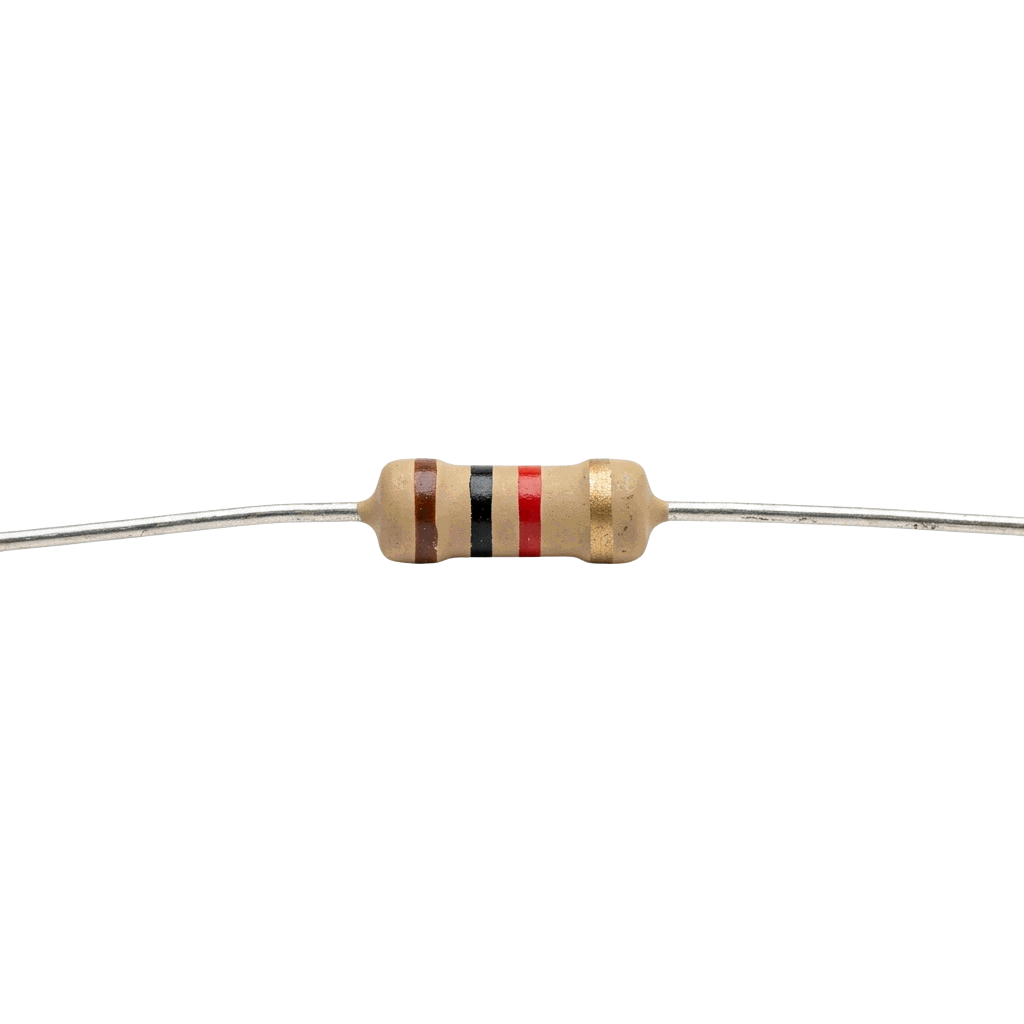
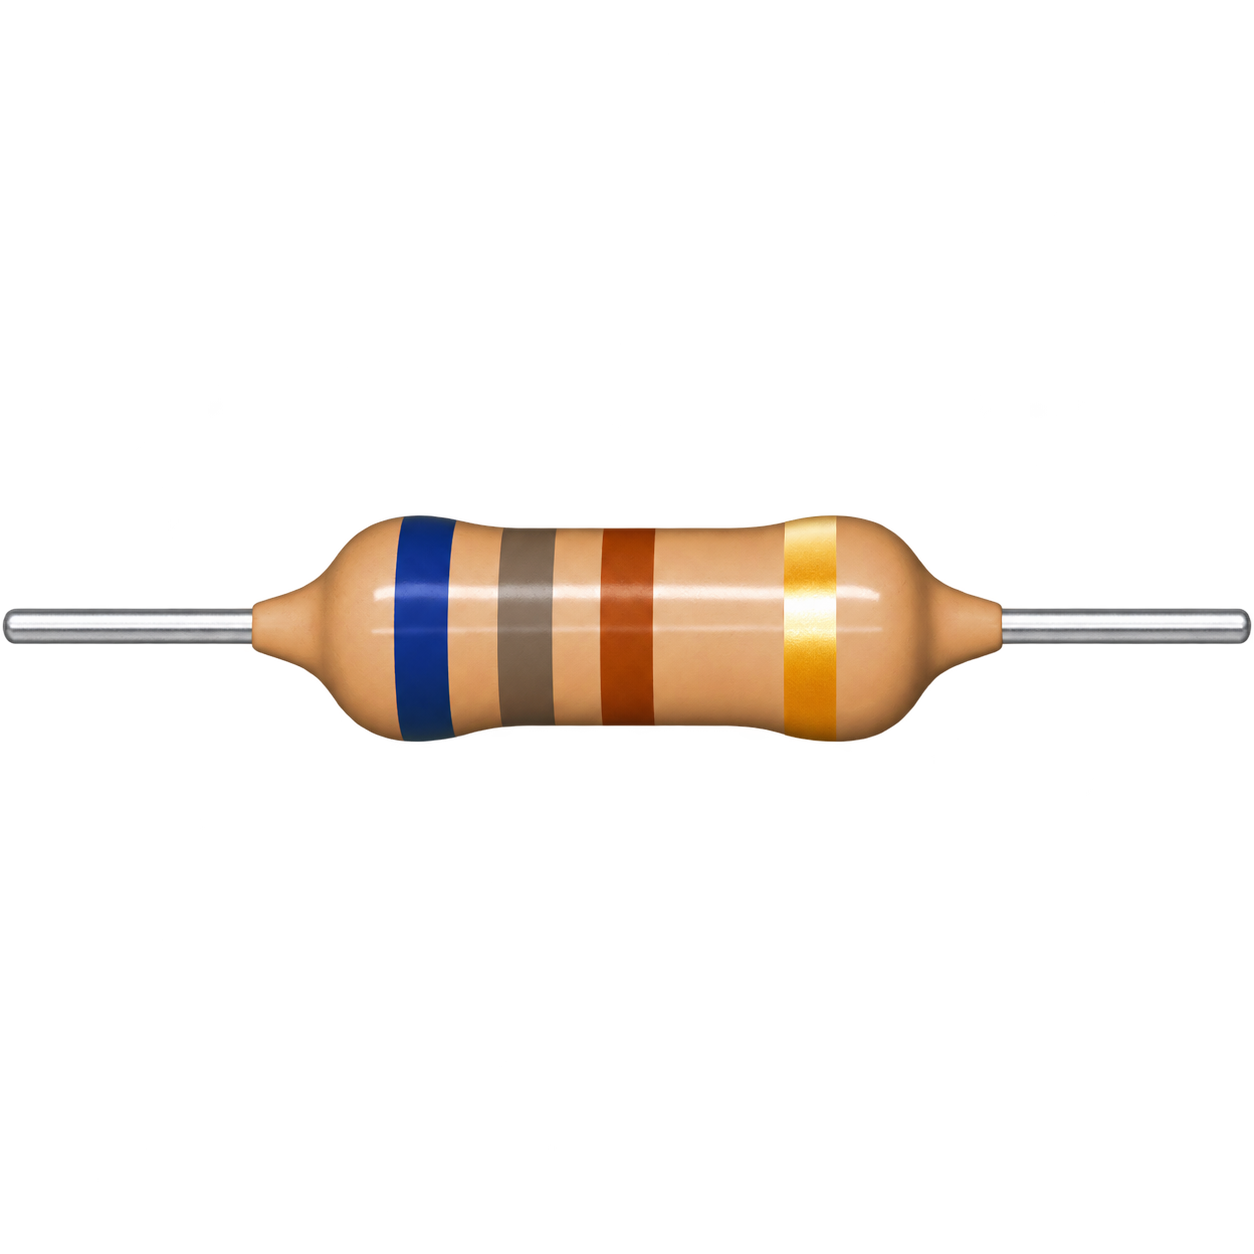
docs: update asset registry, implement asset audit  and refine component documentation

Changed region(s): [[0.0, 0.4062, 1.0, 0.5938]]

diff --git a/docs/ASSET_REGISTRY.md b/docs/ASSET_REGISTRY.md
@@ -1,81 +1,221 @@
-# ASSET_REGISTRY
+# Asset Registry
 
-## 1. Objetivo
-## 2. Regras de uso
-## 3. Status possíveis
-## 4. Índice geral de assets
-## 5. Componentes elétricos validados
-## 6. Assets visuais não elétricos
-## 7. Pendências
+## Objetivo
 
+Este documento registra o primeiro lote de assets canônicos do EletroLab para o Primeiro Stand, **Acende Aí**, sua identidade técnica e o respectivo status de validação.
 
-## 1. Objetivo
+O circuito de referência é:
 
-Este documento registra quais assets visuais são canônicos no EletroLab,
-o que cada um representa e seu status de validação.
+```text
+bateria de 9 V (+) -> interruptor SPST -> resistor de 680 Ω -> LED vermelho -> bateria de 9 V (-)
+```
 
-Ele não define comportamento de runtime, rotação, ghost, solver ou layout.
-Esses aspectos pertencem à implementação e à arquitetura.
+Este documento **não** define rotação, ghost, hitbox, snap, coordenadas de terminais, solver, comportamento interno da Bancada, animações ou layout. Esses aspectos pertencem à arquitetura e à implementação posterior.
 
-## 2. Regras de uso
+Quando um detalhe físico importante não puder ser percebido com clareza no asset principal, ele pode ser ensinado por **material de apoio pedagógico complementar**, desde que o asset não contradiga o componente real. Esse apoio não substitui a validação técnica do componente.
 
-- Um asset elétrico não é aprovado apenas pela aparência.
-- O componente representado deve ser identificado tecnicamente.
-- Símbolo e componente físico devem representar o mesmo dispositivo.
-- Polaridade e terminais precisam ser compatíveis com o componente real.
-- Não inventar tensão, corrente, pinagem ou subtipo ausentes.
-- Imagem gerada ou ilustrada não é fonte técnica.
-- Um asset pode estar inventariado sem estar tecnicamente aprovado.
+## Regras
 
-## 3. Status possíveis
+- Precisão elétrica prevalece sobre aparência e conveniência visual.
+- Um asset só representa um dispositivo quando tipo/subtipo, terminais, polaridade (quando houver) e símbolo técnico forem coerentes entre si.
+- Valores elétricos do circuito didático não são especificações universais do componente físico.
+- Imagens geradas ou estilizadas são referências visuais, nunca fonte técnica.
+- Nenhuma especificação que não esteja no código, na documentação canônica ou na referência citada é inferida.
+- Se uma propriedade essencial não puder ser confirmada, o item permanece `EM_VALIDACAO`.
+- Cores dos fios são apoio visual; não definem polaridade nem topologia.
+- Material pedagógico complementar pode destacar detalhes reais difíceis de perceber no asset, como comprimento dos terminais, face plana do LED, ânodo/cátodo, código de cores e símbolos.
 
-| Status         | Significado                                           |
-| -------------- | ----------------------------------------------------- |
-| `INVENTARIADO` | existe e foi identificado no repositório              |
-| `EM_VALIDACAO` | asset escolhido, mas falta confirmação técnica        |
-| `APROVADO`     | asset + identidade técnica + uso pedagógico validados |
-| `REJEITADO`    | não deve ser usado como representação canônica        |
+## Status
 
-## 4. Índice geral de assets
+- `INVENTARIADO`: asset e uso localizados, ainda sem validação técnica suficiente.
+- `EM_VALIDACAO`: há informação ausente, ambígua ou contraditória.
+- `APROVADO`: identidade, terminais, polaridade quando aplicável, símbolo, uso pedagógico e referência técnica são coerentes.
+- `REJEITADO`: o asset contradiz o dispositivo que deveria representar ou não pode cumprir seu papel pedagógico.
 
-| ID      | Componente/uso   | Asset canônico                      | Categoria | Status       | Uso principal |
-| ------- | ---------------- | ----------------------------------- | --------- | ------------ | ------------- |
-| BAT-001 | Bateria 9 V      | `assets/components/battery.png`     | elétrico  | EM_VALIDACAO | Acende Aí     |
-| RES-001 | Resistor         | `assets/components/resistor.png`    | elétrico  | EM_VALIDACAO | Acende Aí     |
-| LED-001 | LED vermelho     | `assets/components/led_off.png`     | elétrico  | EM_VALIDACAO | Acende Aí     |
-| SW-001  | Interruptor SPST | `assets/components/switch_open.png` | elétrico  | EM_VALIDACAO | Acende Aí     |
+## Índice
 
-## 5. Componentes elétricos validados
+| ID | Componente | Asset canônico | Status | Uso principal |
+|---|---|---|---|---|
+| BAT-001 | Bateria alcalina de 9 V | `assets/components/battery.png` | APROVADO | Fonte do circuito de referência. |
+| RES-001 | Resistor axial de 680 Ω | `assets/components/resistor.png` | EM_VALIDACAO | Novo asset correto, aguardando substituição no repositório. |
+| LED-001 | LED vermelho de dois terminais | `assets/components/led_off.png` | APROVADO | Carga luminosa polarizada; A/K reforçados por apoio pedagógico. |
+| SW-001 | Interruptor-faca SPST | `assets/components/switch_open.png` | APROVADO | Abrir e fechar o caminho em série. |
+| WIRE-001 | Fios de conexão didáticos | `assets/components/wires.png` | EM_VALIDACAO | Tipo físico de conector ainda a definir. |
 
 ## BAT-001 — Bateria 9 V
 
 - **Asset canônico:** `assets/components/battery.png`
-- **Alternativa existente:** `assets/images/component_battery_horizontal.png`
-- **Asset de origem/referência visual:** imagem comercial de bateria Duracell 9 V
+- **Alternativas existentes:** `assets/images/component_battery_horizontal.png`
+- **Asset de origem/referência visual:** bateria Duracell 9 V usada como referência visual; o asset canônico final foi desmarcado e não deve exibir branding comercial.
 
-- **Nome técnico:** bateria alcalina de 9 V
-- **Tipo/subtipo:** bateria primária alcalina, formato 9 V
-- **Quantidade de terminais:** 2
-- **Função dos terminais:** terminal positivo (+) e terminal negativo (−)
-- **Polaridade:** sim
+- **Nome técnico:** bateria alcalina de 9 V.
+- **Tipo/subtipo:** bateria primária alcalina, formato 9 V, com dois terminais snap.
+- **Quantidade de terminais:** 2.
+- **Função dos terminais:** positivo (+) e negativo (−).
+- **Polaridade:** sim.
 
-- **Tensão/faixa relevante para a demonstração:** 9 V
-- **Corrente/faixa relevante:** depende da carga; não definir valor fixo sem referência técnica
-- **Outros parâmetros relevantes:** terminais tipo miniature snap
+- **Tensão/faixa relevante para a demonstração:** 9 V nominal.
+- **Corrente/faixa relevante:** depende da carga; no circuito de referência, aproximadamente 10,3 mA, valor que não representa corrente nominal da bateria.
+- **Outros parâmetros relevantes:** os dois terminais possuem formatos físicos distintos e precisam permanecer coerentes com a identificação +/−.
 
-- **Representação esquemática correspondente:** símbolo de bateria
-- **Implementação da representação:** desenhado por código via painter esquemático
+- **Representação esquemática correspondente:** símbolo de bateria, com polaridade explícita.
+- **Implementação da representação:** representação esquemática desenhada por código; manter correspondência com o tipo físico e os polos.
 
-- **Referência real confiável:** documentação técnica oficial Duracell para bateria alcalina 9 V
-- **Fabricante/modelo de referência:** Duracell MN1604 / 6LR61, bateria alcalina 9 V
+- **Referência real confiável:** documentação técnica oficial Duracell para bateria alcalina de 9 V.
+- **Fabricante/modelo de referência:** Duracell MN1604 ou referência tecnicamente compatível, sem afirmar que o asset genérico é esse modelo exato.
 
-- **Uso pedagógico:** fonte do circuito-base do Primeiro Stand — “Acende Aí”
-- **Comportamento que o estudante deve reconhecer:** fornece diferença de potencial ao circuito; os polos possuem polaridade definida
+- **Uso pedagógico:** fornecer a diferença de potencial do circuito de baixa tensão.
+- **Comportamento que o estudante deve reconhecer:** + e − indicam polaridade/potencial; a bateria fornece diferença de potencial entre seus polos.
 
-- **Observações visuais:** o terminal menor é o positivo (+) e o terminal maior é o negativo (−). Há uma segunda representação da mesma entidade no repositório; não é duplicata binária e não foi escolhida como asset canônico.
-- **Status:** APROVADO
-- **Pendências:** nenhuma para identificação básica do asset
+- **Observações visuais:** asset final sem marca comercial; dois terminais e polaridade coerentes com bateria de 9 V real.
+- **Status:** `APROVADO`
+- **Pendências:** nenhuma de identidade técnica. Hitboxes e coordenadas ficam fora deste registro.
 
-## RES-001 — Resistor genérico
+## RES-001 — Resistor 680 Ω
 
+- **Asset canônico:** `assets/components/resistor.png`
+- **Alternativas existentes:** `assets/images/component_resistor.png`
+- **Asset de origem/referência visual:** novo asset visual baseado em resistor axial realista, sem identificação comercial específica.
 
+- **Nome técnico:** resistor fixo axial.
+- **Tipo/subtipo:** resistor axial de dois terminais; material construtivo exato não deve ser inferido pela aparência.
+- **Quantidade de terminais:** 2.
+- **Função dos terminais:** extremidades do elemento resistivo; eletricamente intercambiáveis neste uso.
+- **Polaridade:** não possui.
+
+- **Tensão/faixa relevante para a demonstração:** circuito alimentado por 9 V; não inferir tensão nominal do resistor pelo asset.
+- **Corrente/faixa relevante:** aproximadamente 10,3 mA no circuito de referência.
+- **Outros parâmetros relevantes:** valor pedagógico: `680 Ω`. Código de cores de 4 faixas adotado: **azul – cinza – marrom – dourado**, correspondente a **680 Ω ±5 %**.
+
+- **Representação esquemática correspondente:** símbolo IEC de resistor, sem polaridade.
+- **Implementação da representação:** representação esquemática desenhada por código.
+
+- **Referência real confiável:** resistor axial comercial de 680 Ω com datasheet de fabricante ou distribuidor técnico confiável.
+- **Fabricante/modelo de referência:** referência técnica compatível, sem identificar o asset como modelo comercial exato.
+
+- **Uso pedagógico:** limitar a corrente em série e proteger o LED.
+- **Comportamento que o estudante deve reconhecer:** o resistor de 680 Ω limita a corrente; inverter suas extremidades não altera sua função.
+
+- **Observações visuais:** o novo asset revisado está horizontal, com fundo transparente e faixas `azul – cinza – marrom – dourado`, coerentes com 680 Ω ±5 %. A arte anterior incompatível não deve permanecer como canônica.
+- **Status:** `EM_VALIDACAO`
+- **Pendências:** substituir `assets/components/resistor.png` pelo novo asset e confirmar o arquivo final no repositório. Depois disso, pode passar para `APROVADO`.
+
+## LED-001 — LED vermelho
+
+- **Asset canônico:** `assets/components/led_off.png`
+- **Asset de estado ligado:** `assets/components/led_on.png`
+- **Alternativas existentes:** `assets/images/component_led_off.png`, `assets/images/component_led_on.png`
+- **Asset de origem/referência visual:** não identificado com segurança.
+
+- **Nome técnico:** LED vermelho de furo passante.
+- **Tipo/subtipo:** LED vermelho de dois terminais, encapsulamento visualmente compatível com formato comum de aproximadamente 5 mm; modelo comercial exato não identificado.
+- **Quantidade de terminais:** 2.
+- **Função dos terminais:** ânodo (A) e cátodo (K).
+- **Polaridade:** sim.
+
+- **Tensão/faixa relevante para a demonstração:** o Primeiro Stand usa aproximadamente `Vf = 2 V` como modelo didático; não é valor universal para todo LED vermelho.
+- **Corrente/faixa relevante:** no circuito com resistor de 680 Ω, aproximadamente 10,3 mA.
+- **Outros parâmetros relevantes:** exige limitação de corrente; não deve ser ligado diretamente à bateria de 9 V.
+
+- **Representação esquemática correspondente:** símbolo de LED; orientação A/K deve ser coerente com a montagem.
+- **Implementação da representação:** representação esquemática desenhada por código e mapeamento A/K no modelo de terminais.
+
+- **Referência real confiável:** datasheet de LED vermelho comercial de dois terminais e encapsulamento compatível.
+- **Fabricante/modelo de referência:** referência técnica compatível, não identificação exata do asset.
+
+- **Uso pedagógico:** carga luminosa polarizada do circuito-base do Primeiro Stand.
+- **Comportamento que o estudante deve reconhecer:** o LED emite luz quando polarizado diretamente e com corrente limitada; a orientação dos terminais importa.
+
+- **Observações visuais:** `led_off` e `led_on` representam o mesmo LED em dois estados. A diferença A/K não precisa ser artificialmente exagerada no asset principal. O apoio pedagógico deve mostrar claramente os indicadores reais adotados para o componente de referência: **perna mais longa = ânodo**, **perna mais curta = cátodo** e **face plana do encapsulamento = lado do cátodo**, além do símbolo correspondente.
+- **Status:** `APROVADO`
+- **Pendências:** criar material de apoio pedagógico com diagrama claro de A/K, comprimento das pernas, face plana e símbolo; confirmar que a orientação usada pelo código não contradiz esse material.
+
+## SW-001 — Interruptor SPST
+
+- **Asset canônico:** `assets/components/switch_open.png`
+- **Asset de estado fechado:** `assets/components/switch_closed.png`
+- **Alternativas existentes:** `assets/images/component_switch_off.png`, `assets/images/component_switch_on.png`
+- **Asset de origem/referência visual:** não identificado com segurança; visualmente compatível com chave-faca didática.
+
+- **Nome técnico:** interruptor-faca SPST.
+- **Tipo/subtipo:** single pole, single throw (SPST), acionamento manual e contato visível.
+- **Quantidade de terminais:** 2.
+- **Função dos terminais:** conectados quando fechado e separados quando aberto.
+- **Polaridade:** não possui.
+
+- **Tensão/faixa relevante para a demonstração:** uso didático no circuito de 9 V; não inferir tensão nominal comercial pelo asset.
+- **Corrente/faixa relevante:** aproximadamente 10,3 mA no circuito de referência quando fechado; não é corrente nominal da chave.
+- **Outros parâmetros relevantes:** não é SPDT, DPST, DPDT, relé, fusível ou disjuntor.
+
+- **Representação esquemática correspondente:** símbolo de interruptor SPST, aberto ou fechado conforme o estado.
+- **Implementação da representação:** representação esquemática desenhada por código.
+
+- **Referência real confiável:** chave-faca SPST real de uso didático/laboratorial.
+- **Fabricante/modelo de referência:** referência técnica compatível, não identificação exata do asset.
+
+- **Uso pedagógico:** controlar a continuidade do único percurso em série.
+- **Comportamento que o estudante deve reconhecer:** aberto = contatos separados; fechado = contatos unidos.
+
+- **Observações visuais:** `switch_open.png` e `switch_closed.png` representam estados coerentes. `on/off` não deve substituir automaticamente aberto/fechado sem mapeamento explícito.
+- **Status:** `APROVADO`
+- **Pendências:** nenhuma de identidade técnica.
+
+## WIRE-001 — Fios/conexões
+
+- **Asset canônico:** `assets/components/wires.png`
+- **Alternativas existentes:** não localizadas neste lote.
+- **Asset de origem/referência visual:** não identificado com segurança.
+
+- **Nome técnico:** fios de conexão para circuito didático de baixa tensão.
+- **Tipo/subtipo:** a definir conforme o sistema físico de terminais adotado para a bancada.
+- **Quantidade de terminais:** duas extremidades condutoras por fio.
+- **Função dos terminais:** estabelecer conexão elétrica entre dois pontos.
+- **Polaridade:** o fio em si não possui polaridade; sua cor não determina potencial.
+
+- **Tensão/faixa relevante para a demonstração:** baixa tensão didática de 9 V.
+- **Corrente/faixa relevante:** aproximadamente 10,3 mA no circuito de referência; não usar como corrente nominal do fio.
+- **Outros parâmetros relevantes:** não inferir bitola, material, tipo de conector, isolamento, tensão máxima ou corrente nominal pela imagem.
+
+- **Representação esquemática correspondente:** linha condutora/conexão elétrica; junções dependem da topologia e da marcação de nó.
+- **Implementação da representação:** conexões elétricas são modeladas separadamente dos componentes físicos.
+
+- **Referência real confiável:** deverá corresponder ao sistema físico de conexão efetivamente adotado.
+- **Fabricante/modelo de referência:** ainda não definido.
+
+- **Uso pedagógico:** tornar visível a continuidade entre terminais e formar o caminho condutor.
+- **Comportamento que o estudante deve reconhecer:** um fio conecta eletricamente os pontos de suas extremidades; fio ausente/solto abre o percurso; cor é apoio visual.
+
+- **Observações visuais:** o asset atual aparenta fios jumper, mas não deve ser classificado definitivamente como macho-macho enquanto não houver decisão sobre compatibilidade física com os componentes e a bancada.
+- **Status:** `EM_VALIDACAO`
+- **Pendências:** definir o sistema físico de conexão/terminais da bancada e então confirmar ou substituir o asset.
+
+## Relatório de validação
+
+### Aprovados
+
+- **BAT-001 — Bateria alcalina de 9 V.**
+- **LED-001 — LED vermelho.**
+- **SW-001 — Interruptor-faca SPST.**
+
+### Em validação
+
+- **RES-001 — Resistor de 680 Ω.** Novo asset correto; falta sincronizar o arquivo canônico no repositório.
+- **WIRE-001 — Fios de conexão.** Função elétrica clara, mas tipo físico de conector ainda não fixado.
+
+### Apoio pedagógico recomendado
+
+Criar documentação complementar de componentes para as fases **Conhecer** e **Inspecionar**.
+
+Para o LED, mostrar lado a lado:
+
+- fotografia/asset;
+- ânodo (A);
+- cátodo (K);
+- perna longa;
+- perna curta;
+- face plana do encapsulamento;
+- símbolo esquemático;
+- necessidade de resistor limitador;
+- exemplo de orientação correta no circuito do Primeiro Stand.
+
+Esse material deve apoiar a observação sem transformar o asset físico em um diagrama artificial.
